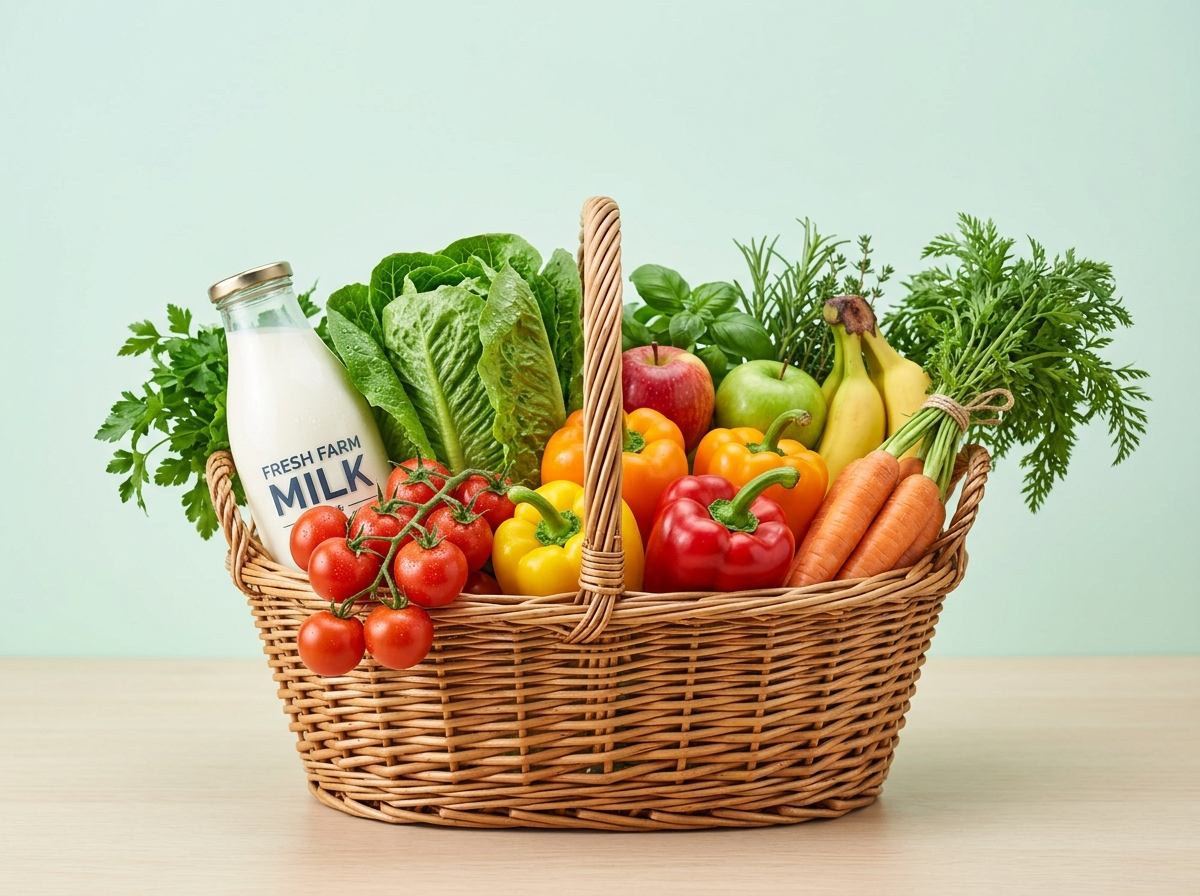
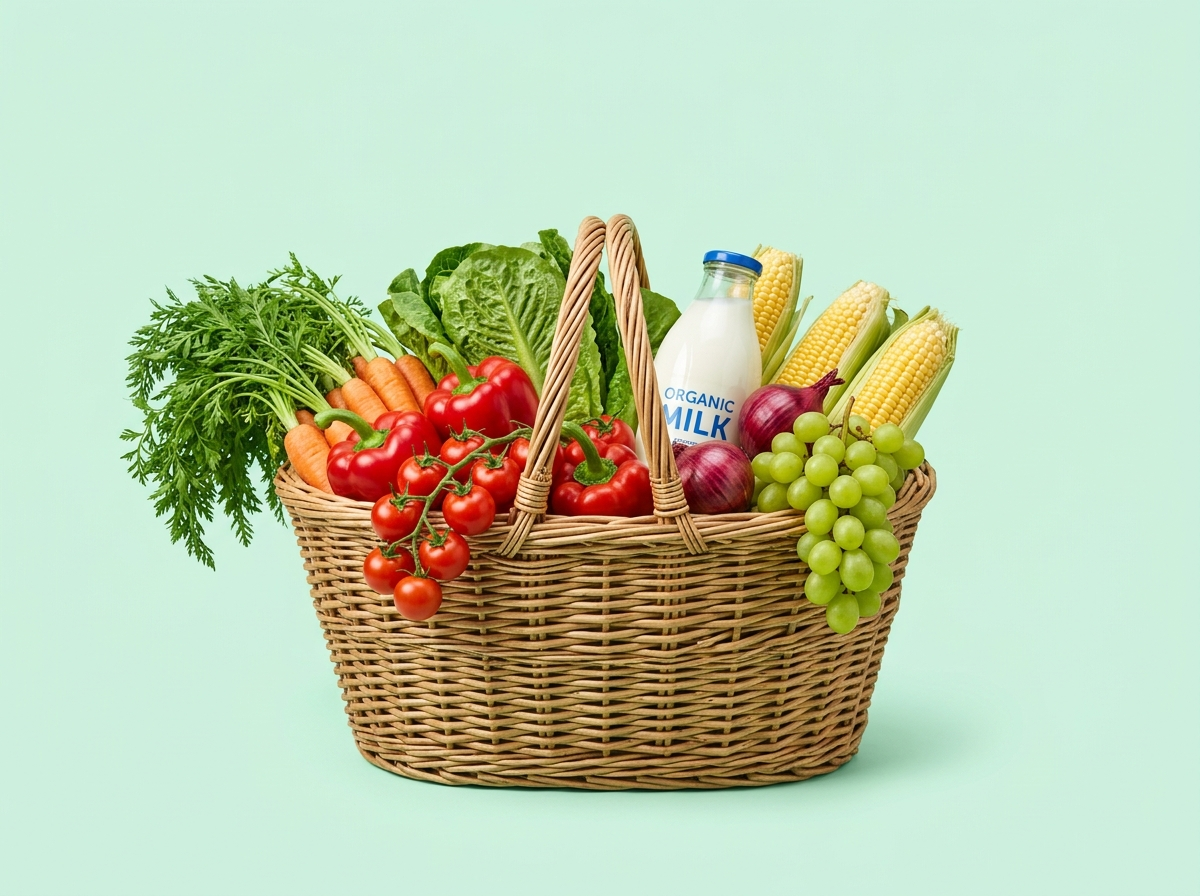
feat(ui): update hero typography to Baloo Chettan 2, clean studio basket asset, and fix right card positioning

diff --git a/client/src/components/DesktopHomeView.tsx b/client/src/components/DesktopHomeView.tsx
@@ -425,17 +425,17 @@ export const DesktopHomeView: React.FC<DesktopHomeViewProps> = ({
   return (
     <div className="space-y-4 md:space-y-4.5 lg:space-y-6 font-sans">
 
-      {/* 1. HERO BANNER: EXACT MATCH TO USER'S SCREENSHOT */}
-      <div className="relative overflow-hidden rounded-3xl bg-[#E4F2E9] min-h-[220px] lg:min-h-[250px] p-6 sm:p-8 lg:p-9 shadow-xs flex items-center justify-between font-sans">
+      {/* 1. HERO BANNER: EXACT MATCH TO USER'S REFERENCE */}
+      <div className="relative overflow-hidden rounded-3xl bg-[#D6EFE3] border border-[#C2E3D4] min-h-[200px] lg:min-h-[235px] p-6 sm:p-7 lg:p-8 shadow-xs flex items-center justify-between font-sans">
 
         {/* Left Content Column */}
-        <div className="relative z-10 space-y-2.5 max-w-md lg:max-w-lg shrink-0">
-          <h1 className="text-2xl sm:text-3xl lg:text-[32px] font-black text-[#1A251E] font-malayalam tracking-tight leading-[1.25] m-0">
+        <div className="relative z-10 space-y-2 max-w-[55%] sm:max-w-md lg:max-w-lg shrink-0">
+          <h1 className="font-malayalam-heading text-2xl sm:text-3xl lg:text-[34px] font-extrabold text-[#12231A] tracking-tight leading-[1.2] m-0">
             ആവശ്യമായതെല്ലാം,<br />
             മികച്ച വിലയിൽ കണ്ടെത്തൂ.
           </h1>
 
-          <p className="text-xs sm:text-sm text-[#38483F] font-medium font-sans m-0">
+          <p className="text-xs sm:text-sm text-[#3E5246] font-medium font-sans m-0 mt-1.5">
             Find and compare local grocery prices in Kerala
           </p>
 
@@ -446,60 +446,60 @@ export const DesktopHomeView: React.FC<DesktopHomeViewProps> = ({
                 const el = document.getElementById('catalog-products-section');
                 if (el) el.scrollIntoView({ behavior: 'smooth' });
               }}
-              className="inline-flex items-center px-6 py-2 rounded-full bg-[#107048] hover:bg-[#0B5C3A] active:scale-95 text-white font-bold text-xs sm:text-sm shadow-xs transition-all cursor-pointer font-malayalam"
+              className="inline-flex items-center px-6 py-2 rounded-full bg-[#107048] hover:bg-[#0B5C3A] active:scale-95 text-white font-bold text-xs sm:text-sm shadow-xs transition-all cursor-pointer font-malayalam-heading"
             >
               വിലകൾ കാണാം
             </button>
           </div>
         </div>
 
-        {/* Right Side: Fresh Groceries Basket & Floating Live Price Card */}
-        <div className="relative flex items-center justify-end flex-1 h-full min-h-[200px] pointer-events-none sm:pointer-events-auto">
-          {/* Fresh Groceries Basket Image */}
-          <div className="relative w-72 sm:w-84 md:w-96 lg:w-[420px] h-48 sm:h-56 lg:h-60 shrink-0">
+        {/* Right Side: Seamless Studio Fresh Groceries Basket & Floating Live Price Card */}
+        <div className="relative flex items-center justify-end flex-1 h-full min-h-[180px] pointer-events-none sm:pointer-events-auto overflow-visible">
+          {/* Basket + Card Relative Wrapper */}
+          <div className="relative h-44 sm:h-52 lg:h-56 max-h-[225px] flex items-center justify-end shrink-0">
             <img
               src="/hero-groceries-fresh.jpg"
               alt="Fresh Groceries Basket"
-              className="w-full h-full object-contain object-right mix-blend-multiply filter contrast-[1.03]"
+              className="h-full w-auto max-w-[260px] sm:max-w-[340px] lg:max-w-[390px] object-contain object-right"
               loading="eager"
             />
 
-            {/* Floating Glassmorphic Live Price Card (Exact Match to Screenshot) */}
-            <div className="absolute right-0 sm:right-2 top-1/2 -translate-y-1/2 bg-white/80 backdrop-blur-md rounded-2xl p-3 border border-white/70 shadow-[0_8px_24px_rgba(0,0,0,0.07)] w-[155px] sm:w-[170px] space-y-2 select-none">
-              <div className="text-[11px] font-semibold text-[#1A251E] font-sans">
+            {/* Floating Glassmorphic Live Price Card (Exact Match to Reference) */}
+            <div className="absolute right-0 sm:right-2 top-1/2 -translate-y-1/2 bg-white/85 backdrop-blur-md rounded-2xl p-2.5 sm:p-3 border border-white/80 shadow-[0_8px_24px_rgba(0,0,0,0.08)] w-[140px] sm:w-[158px] space-y-1.5 select-none z-20 pointer-events-auto">
+              <div className="text-[11px] font-bold text-[#14231A] font-sans">
                 Live price
               </div>
 
               {/* Row 1: Coconut Oil */}
-              <div className="flex items-center gap-2">
-                <div className="w-7 h-7 rounded-lg bg-white border border-[#E3ECE7] flex items-center justify-center p-0.5 shrink-0 shadow-2xs">
+              <div className="flex items-center gap-1.5 sm:gap-2">
+                <div className="w-6 h-6 sm:w-7 sm:h-7 rounded-lg bg-white border border-[#E3ECE7] flex items-center justify-center p-0.5 shrink-0 shadow-2xs">
                   <img src="/categories/oils-spices.jpg" alt="Coconut Oil" className="w-full h-full object-contain rounded" />
                 </div>
                 <div className="min-w-0 flex-1 leading-tight">
-                  <div className="text-[10px] text-slate-600 font-sans truncate">Coconut Oil</div>
-                  <div className="text-[11px] font-bold text-slate-900 font-sans">₹190/L</div>
+                  <div className="text-[9.5px] sm:text-[10px] text-slate-600 font-sans truncate">Coconut Oil</div>
+                  <div className="text-[10.5px] sm:text-[11px] font-bold text-slate-900 font-sans">₹190/L</div>
                 </div>
               </div>
 
               {/* Row 2: ABC Mart */}
-              <div className="flex items-center gap-2">
-                <div className="w-7 h-7 rounded-lg bg-white border border-[#E3ECE7] flex items-center justify-center p-0.5 shrink-0 shadow-2xs">
+              <div className="flex items-center gap-1.5 sm:gap-2">
+                <div className="w-6 h-6 sm:w-7 sm:h-7 rounded-lg bg-white border border-[#E3ECE7] flex items-center justify-center p-0.5 shrink-0 shadow-2xs">
                   <img src="/categories/vegetables.jpg" alt="ABC Mart" className="w-full h-full object-contain rounded" />
                 </div>
                 <div className="min-w-0 flex-1 leading-tight">
-                  <div className="text-[10px] text-slate-600 font-sans truncate">ABC Mart:</div>
-                  <div className="text-[11px] font-bold text-slate-900 font-sans">₹195/L</div>
+                  <div className="text-[9.5px] sm:text-[10px] text-slate-600 font-sans truncate">ABC Mart:</div>
+                  <div className="text-[10.5px] sm:text-[11px] font-bold text-slate-900 font-sans">₹195/L</div>
                 </div>
               </div>
 
               {/* Row 3: Rice */}
-              <div className="flex items-center gap-2">
-                <div className="w-7 h-7 rounded-lg bg-white border border-[#E3ECE7] flex items-center justify-center p-0.5 shrink-0 shadow-2xs">
+              <div className="flex items-center gap-1.5 sm:gap-2">
+                <div className="w-6 h-6 sm:w-7 sm:h-7 rounded-lg bg-white border border-[#E3ECE7] flex items-center justify-center p-0.5 shrink-0 shadow-2xs">
                   <img src="/categories/grains.jpg" alt="Rice" className="w-full h-full object-contain rounded" />
                 </div>
                 <div className="min-w-0 flex-1 leading-tight">
-                  <div className="text-[10px] text-slate-600 font-sans truncate">Rice</div>
-                  <div className="text-[11px] font-bold text-slate-900 font-sans">₹195/L</div>
+                  <div className="text-[9.5px] sm:text-[10px] text-slate-600 font-sans truncate">Rice</div>
+                  <div className="text-[10.5px] sm:text-[11px] font-bold text-slate-900 font-sans">₹195/L</div>
                 </div>
               </div>
             </div>

diff --git a/client/tailwind.config.js b/client/tailwind.config.js
@@ -91,9 +91,9 @@ export default {
         padmanabha: ['"FML-Padmanabha"', '"Noto Sans Malayalam"', 'sans-serif'],
         sans: ['"Inter"', '"Noto Sans Malayalam"', 'system-ui', '-apple-system', 'BlinkMacSystemFont', 'Segoe UI', 'Roboto', 'sans-serif'],
         malayalam: ['"Inter"', '"Noto Sans Malayalam"', 'sans-serif'],
-        'malayalam-heading': ['"Inter"', '"Anek Malayalam"', '"Noto Sans Malayalam"', 'sans-serif'],
+        'malayalam-heading': ['"Baloo Chettan 2"', '"Anek Malayalam"', '"Noto Sans Malayalam"', 'sans-serif'],
         ui: ['"Inter"', '"Noto Sans Malayalam"', 'sans-serif'],
-        heading: ['"Inter"', '"Anek Malayalam"', '"Noto Sans Malayalam"', 'sans-serif'],
+        heading: ['"Baloo Chettan 2"', '"Inter"', '"Anek Malayalam"', 'sans-serif'],
         price: ['"Inter"', 'sans-serif'],
         num: ['"Inter"', 'sans-serif'],
       },
